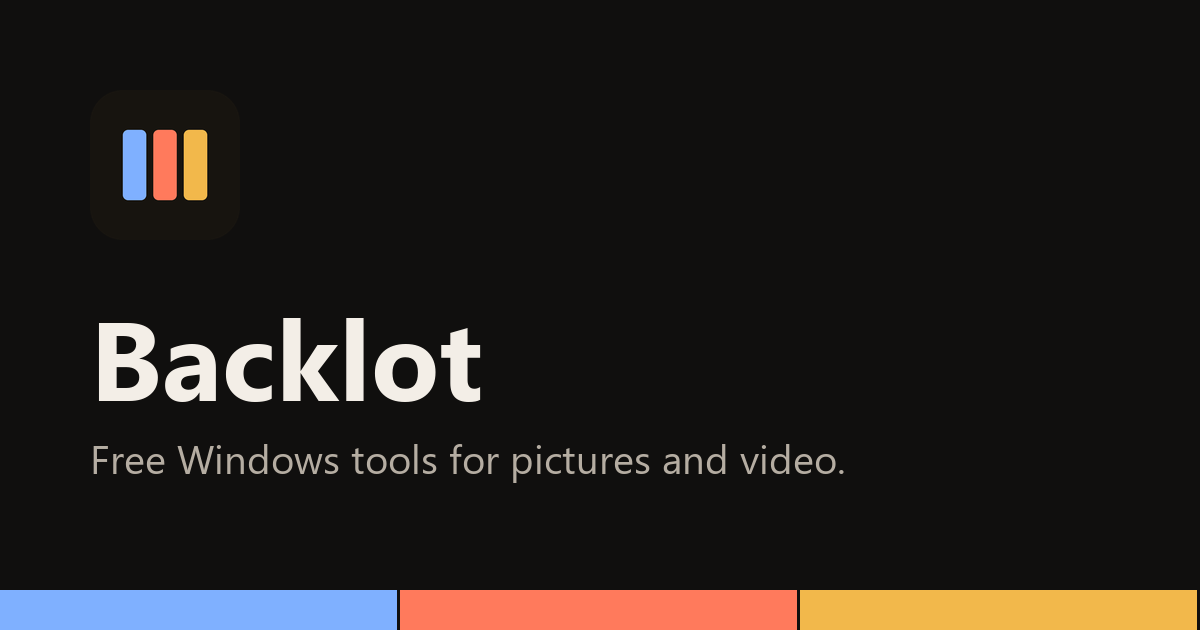
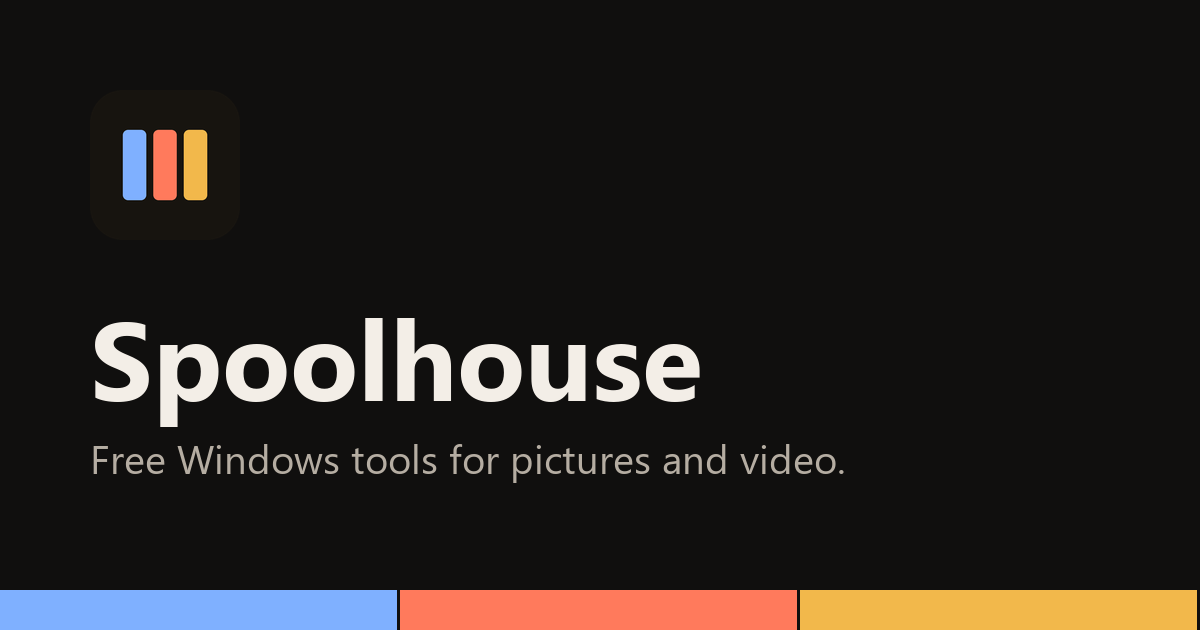
Backlot is now Spoolhouse

Changed region(s): [[0.2158, 0.4825, 0.5858, 0.6635], [0.0617, 0.5127, 0.185, 0.6937]]

diff --git a/index.html b/index.html
@@ -3,12 +3,12 @@
 <head>
   <meta charset="utf-8">
   <meta name="viewport" content="width=device-width, initial-scale=1">
-  <title>Backlot · Free Windows tools for pictures and video</title>
-  <meta name="description" content="Backlot is three free Windows apps by Inigo: Plates, Stills and Rushes.">
+  <title>Spoolhouse · Free Windows tools for pictures and video</title>
+  <meta name="description" content="Spoolhouse is three free Windows apps by Inigo: Plates, Stills and Rushes.">
   <meta name="theme-color" content="#100F0E">
-  <meta property="og:title" content="Backlot">
-  <meta property="og:description" content="Backlot is three free Windows apps by Inigo: Plates, Stills and Rushes.">
-  <meta property="og:image" content="https://inigo-code.github.io/backlot-site/assets/preview.png">
+  <meta property="og:title" content="Spoolhouse">
+  <meta property="og:description" content="Spoolhouse is three free Windows apps by Inigo: Plates, Stills and Rushes.">
+  <meta property="og:image" content="https://inigo-code.github.io/spoolhouse-site/assets/preview.png">
   <meta property="og:image:width" content="1200">
   <meta property="og:image:height" content="630">
   <meta name="twitter:card" content="summary_large_image">
@@ -17,14 +17,14 @@
   <link rel="preconnect" href="https://fonts.googleapis.com">
   <link rel="preconnect" href="https://fonts.gstatic.com" crossorigin>
   <link href="https://fonts.googleapis.com/css2?family=Bricolage+Grotesque:opsz,wght@12..96,500;12..96,700;12..96,800&family=Figtree:wght@400;500;600;700&display=swap" rel="stylesheet">
-  <link rel="stylesheet" href="backlot.css">
+  <link rel="stylesheet" href="spoolhouse.css">
   <style>:root { --accent: #f3eee7; --accent-ink: #100f0e; --accent-hover: #ffffff; }</style>
   <script>document.documentElement.classList.add('js')</script>
 </head>
 <body>
 <main id="top">
   <header class="bar wrap">
-    <a class="brand" href="#top" aria-label="Backlot, back to top"><img src="assets/icon.svg" width="40" height="40" alt="">Backlot</a>
+    <a class="brand" href="#top" aria-label="Spoolhouse, back to top"><img src="assets/icon.svg" width="40" height="40" alt="">Spoolhouse</a>
     <nav aria-label="Sections"><a href="#apps">The apps</a><a href="#promises">Promises</a><a href="#questions">Questions</a></nav>
     <a class="button button-small" href="#apps">Get the apps</a>
   </header>
@@ -93,7 +93,7 @@
       <div class="faq-list" data-reveal style="--i:1">
         <details name="faq" open><summary>Are they really free?</summary><p>Yes. All three are free, with no ads, no subscriptions and no paid extras.</p></details>
         <details name="faq"><summary>Why does Windows warn me?</summary><p>The apps aren’t code-signed, so SmartScreen can show “Windows protected your PC”. Choose More info, then Run anyway, and only for files from these pages. Each release lists a checksum so you can verify the download.</p></details>
-        <details name="faq"><summary>Why is the name Backlot?</summary><p>Plates, stills and rushes are all things a film set makes. The backlot is where that work happens, out of sight of the finished picture.</p></details>
+        <details name="faq"><summary>Why is it called Spoolhouse?</summary><p>Plates, stills and rushes all began life wound on a spool of film. A spoolhouse is where a shoot’s spools are kept, and these apps look after yours.</p></details>
         <details name="faq"><summary>Is there a Mac or Linux version?</summary><p>No, these are Windows apps.</p></details>
         <details name="faq"><summary>How do I report a bug?</summary><p>Write to inigo@tosstheworld.org. I read every message.</p></details>
       </div>
@@ -105,13 +105,13 @@
   <div class="wrap">
     <div class="bars" aria-hidden="true"><i class="b-plates"></i><i class="b-stills"></i><i class="b-rushes"></i></div>
     <div class="foot-cols">
-      <nav aria-label="Backlot"><h2>Backlot</h2><a class="to-app" href="https://inigo-code.github.io/plates-site/"><img src="assets/plates.svg" width="24" height="24" alt="">Plates</a><a class="to-app" href="https://inigo-code.github.io/stills-site/"><img src="assets/stills.svg" width="24" height="24" alt="">Stills</a><a class="to-app" href="https://inigo-code.github.io/rushes-site/"><img src="assets/rushes.svg" width="24" height="24" alt="">Rushes</a></nav>
+      <nav aria-label="Spoolhouse"><h2>Spoolhouse</h2><a class="to-app" href="https://inigo-code.github.io/plates-site/"><img src="assets/plates.svg" width="24" height="24" alt="">Plates</a><a class="to-app" href="https://inigo-code.github.io/stills-site/"><img src="assets/stills.svg" width="24" height="24" alt="">Stills</a><a class="to-app" href="https://inigo-code.github.io/rushes-site/"><img src="assets/rushes.svg" width="24" height="24" alt="">Rushes</a></nav>
       <nav aria-label="Also by Inigo"><h2>Also by Inigo</h2><a class="to-app" href="https://inigo-code.github.io/"><img src="assets/heart-apps.svg" width="24" height="24" alt="">Heart Apps, for Android</a></nav>
-      <nav aria-label="Contact"><h2>Contact</h2><a href="mailto:inigo@tosstheworld.org?subject=Backlot">inigo@tosstheworld.org</a><a href="https://github.com/inigo-code">GitHub</a></nav>
+      <nav aria-label="Contact"><h2>Contact</h2><a href="mailto:inigo@tosstheworld.org?subject=Spoolhouse">inigo@tosstheworld.org</a><a href="https://github.com/inigo-code">GitHub</a></nav>
     </div>
     <div class="foot-last"><p>© 2026 Inigo. Free apps, no ads.</p><a href="#top">Back to the top</a></div>
   </div>
 </footer>
-<script src="backlot.js" defer></script>
+<script src="spoolhouse.js" defer></script>
 </body>
 </html>

diff --git a/spoolhouse.css b/spoolhouse.css
@@ -1,4 +1,4 @@
-/* Backlot: the shared layout of the Backlot sites. Each page sets its own accent. */
+/* Spoolhouse: the shared layout of the Spoolhouse sites. Each page sets its own accent. */
 :root {
   --bg: #100F0E; --surface: #181614; --surface-2: #231F1C; --ink: #F3EEE7; --muted: #B5ADA2;
   --plates: #7FB0FF; --stills: #FF7A5C; --rushes: #F2B84B;
@@ -96,7 +96,7 @@ ul { padding: 0; list-style: none; }
 
 .privacy { display: grid; gap: 10px; max-width: 54rem; margin-inline: 0; }
 
-/* Backlot home */
+/* Spoolhouse home */
 .intro { display: grid; grid-template-columns: minmax(0, 8fr) minmax(0, 4fr); gap: var(--gap); align-items: end; padding-block: clamp(2rem, 6vw, 4.5rem) clamp(1.5rem, 3vw, 2.25rem); }
 .fields { display: grid; gap: var(--gap); padding-top: var(--gap); }
 .field { display: grid; grid-template-columns: minmax(0, 5fr) minmax(0, 7fr); gap: clamp(1.5rem, 4vw, 3.5rem); align-items: end; overflow: hidden; padding: clamp(1.75rem, 4vw, 3.25rem) 0 0 clamp(1.75rem, 4vw, 3.25rem); border-radius: 22px; background: var(--field); color: var(--field-ink); --accent: var(--field-ink); --accent-ink: var(--field); }

diff --git a/spoolhouse.js b/spoolhouse.js
@@ -1,4 +1,4 @@
-// Backlot: each part rises once as it reaches the screen. Without this file everything is simply shown.
+// Spoolhouse: each part rises once as it reaches the screen. Without this file everything is simply shown.
 (() => {
   const targets = document.querySelectorAll('[data-reveal]');
   const show = (el) => el.classList.add('is-in');

diff --git a/README.md b/README.md
@@ -1,5 +1,5 @@
-# Backlot
+# Spoolhouse
 
-The home of Backlot: Plates, Stills and Rushes, three free Windows apps by Inigo.
+The home of Spoolhouse: Plates, Stills and Rushes, three free Windows apps by Inigo.
 
 The site is plain HTML and CSS, served by GitHub Pages. The apps are free, all rights reserved.
